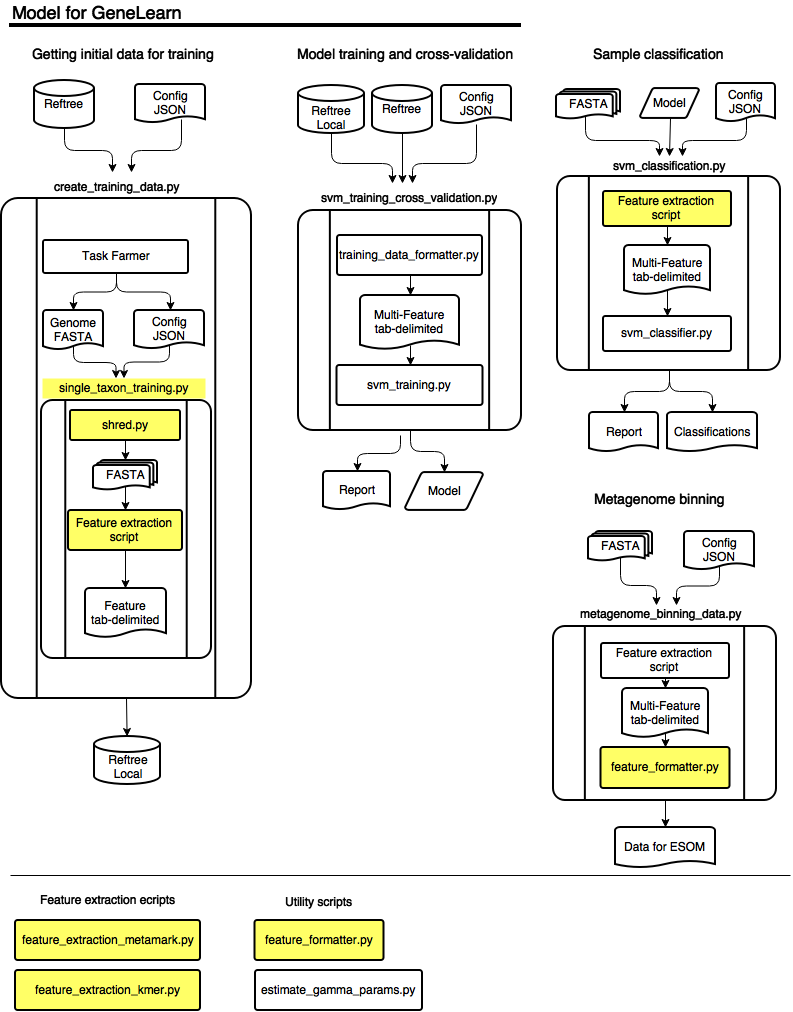
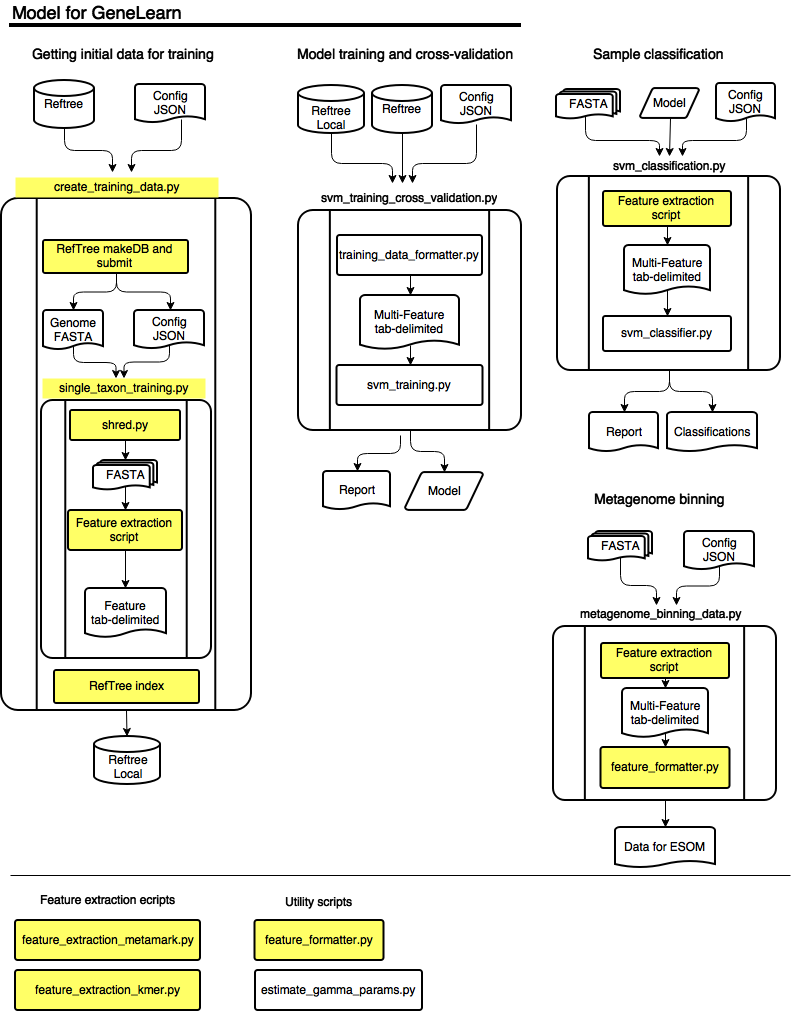
Replaced some files that were not properly saved

Changed region(s): [[0.0, 0.1532, 0.2724, 0.2757], [0.0, 0.6433, 0.3329, 0.7045], [0.7566, 0.6126, 0.9382, 0.6739]]

diff --git a/bin/create_training_data.py b/bin/create_training_data.py
@@ -9,7 +9,7 @@ import subprocess
 from Bio import SeqIO
 parser = argparse.ArgumentParser(description='A script to create training data from gemomes' )
 parser.add_argument('-c', '--config', help ="json formatted config file")
-parser.add_argument('-o', '--output', help ="Reftree database directory") 
+parser.add_argument('-o', '--output', help ="Reftree database directory location") 
 args = parser.parse_args()
 
 
@@ -17,64 +17,24 @@ args = parser.parse_args()
 config = json.loads( open(args.config, 'r'))
 # If an id list is specified in config write it otherwise query everything from the root node \
 if config["trainingid"]:
-	nodes = config["trainingid"]
-	print("Loading Subtree taxon ids from config file: %i" % nodes)
+	node = config["trainingid"]
+	print("Loading subtree taxon ids from config file: %i" % nodes)
 else:
-	nodes = [1]
+	node = [1]
 	print("No subtree specified, training on all sequences")
 	
-# Create data directory if necessary and 100 subdirectories
-datadir = os.path.join(os.path.abspath(config["rootdir"],"data"))
-if not os.path.exists(datadir):
-	os.makedirs(datadir)
-for i in range(10,100):
-	os.makedirs(os.path.join(datadir,str(i))
+# Open a subprocess to create a new reftree database directory, have it execute a shell \
+# script that calls single_taxon_training and writes the results to the reftree database directory
 
-# Open a subprocess to have RefTree pass taxids
-taxids = []
-for node in nodes:
-	reftreeparams = ["refrree.pl","--taxonomy", node, "genomic" ]
-	p1 = subprocess.Popen(reftreeparams, stdin=subprocess.PIPE, stdout=subprocess.PIPE)
-	reftreeout, reftreeerr= p1.communicate()
-	taxids.append(reftreeout)
-	assert p1.returncode == 0, "RefTree returned the error %s while looking up the \
-		taxonomy ids" % qsuberr
-	# root/data/01/0143242.fasta, etc
+reftreeopts = ["reftree.pl", "--newdb", args.output, "--submit", "genomic", \
+	"./single_taxon_training.py","TRUE","--","__TAXON__","__TMPFILE__"]
+p1 = subprocess.Popen(reftreeopts, stdin=subprocess.PIPE, stdout=subprocess.PIPE)
+reftreeout, reftreeerr= p1.communicate()
+assert p1.returncode == 0, "RefTree returned the error %s while executing taxon training" % qsuberr
 
-## Create generate a task farmer job list file ##
 
-# Create a Task farmer directory
-tfdir = os.path.join(os.path.abspath(config["analysisrootdir"]),"taskfarmer")
-if not os.path.exists(tfdir):
-	os.path.makedir(tfdir)
-
-# Open the Task Farmer list file
-tflist = os.path.join(ftdir, "taskfarmer.list")
-with open(tflist, 'w') as tfl: 
-	# for every fasta write a line in the task farmer list file
-	for taxid in taxids:
-		outfile = os.path.abspath(taxid) +".done"
-		tfl.write("single_taxon_training.py "--taxid"+ taxid + ":" +  outfile + ":" + "0")
-tflist.close()
-
-# Start up the task farmer "client" i.e. manager
-p2 = subprocess.Popen(["tfmq-client", "-i", "tflist" "-q", "singletaxontraining"], \
-	stdout=subprocess.PIPE, stderr=subprocess.STDOUT)
-tfmqout,tfmqerr = p2.communicate()
-
-# qsub the script containing the Task Farmer workers
-p3 = subprocess.Popen(["qsub", "-l", "ram.c=5G", "-t" "1-40", "./taskfermer_sts.sh"], \
-	stdout=subprocess.PIPE, stderr=subprocess.STDOUT)
-qsubout,qsuberr = p2.communicate()
-assert p3.returncode == 0, "qsub returned the error %s" % qsuberr
-
-# Monitor the Task farmer client and wait for the processes to complete
-if p2.returncode == 0:
-	
-	# Call Reftree to have it generate reftree local db from the datadir
-	reftreedb = os.path.abspath(args.output)
-	if not os.path.exists(reftreedb):
-		os.makedb(reftreedb)
-	p4 = subprocess.Popen(["reftree.pl", "--loadDb", datadir, reftreedb ], \
-		stdout=subprocess.PIPE, stderr=subprocess.STDOUT)
-	tr2out,tr2err = p2.communicate()
+# Index the reftree database #
+reftree2opts = ["reftree.pl", "--indexDb", args.output]
+p2 = subprocess.Popen(reftree2opts, stdin=subprocess.PIPE, stdout=subprocess.PIPE)
+reftreeout, reftreeerr= p1.communicate()
+assert p2.returncode == 0, "RefTree returned the error %s while indexing the database" % qsuberr

diff --git a/bin/feature_extraction_metamark.py b/bin/feature_extraction_metamark.py
@@ -1,0 +1,77 @@
+#!/usr/bin/env python
+import argparse
+import os
+import subprocess
+from Bio import SeqIO
+from itertools import chain
+import shutil
+import re
+
+parser = argparse.ArgumentParser(description='A script to generate a feature matrix  \
+using emmission data from Metamark')
+parser.add_argument('--input', help="A multi-sequence fasta file",type=argparse.FileType('r'), default='-')
+parser.add_argument('--output', help= "output file, tab delimited format", type=argparse.FileType('w'), default='-')
+parser.add_argument('--tmpdir', help="A path to a temporary directory")
+parser.add_argument('--taxid', help="A path to a temporary directory")
+parser.add_argument('--mmp', help="the parameters file for metamark", default = "../gm_parameters/par_11.modified")
+args = parser.parse_args()
+
+## File parsing and variable assignment
+path = os.path.join(os.path.abspath(args.tmpdir),"metamark" )
+records = SeqIO.parse(args.input, "fasta")
+mmp = os.path.abspath(args.mmp)
+
+# Functions
+def flatten(listOfLists):
+    """Flatten one level of nesting"""
+    return chain.from_iterable(listOfLists)
+
+def parsemod(dir, taxid):
+    """Finds the Genemark model, parses it and returns a feature vector with the taxid as the first element"""
+    for file in os.listdir(dir):
+        if file.endswith("hmm.mod"):
+            with open(file, "r") as f:
+                rawvec = []
+                taxlist = [taxid]
+                for line in f.readlines():
+                    rawvec.append(line.split())
+                start1 = rawvec.index(['COD1']) +1
+                stop1 = rawvec.index(['COD2']) -1
+                COD1 = (list(flatten(rawvec[start1: stop1 ])))
+                start2 = 1 + rawvec.index(['NONC'])
+                NONC = (list(flatten(rawvec[start2: start2 +64 ])))
+                itemvect = COD1 + NONC
+                #itemvect = [float(i) for i in itemvect]
+                assert len(itemvect) == 256, "a full length vector could not be extracted from %s" % f.name
+                modvect =  taxlist + itemvect
+            f.close()       
+            return modvect
+            break
+            
+
+# for each sequence in the fasta file:
+for record in records:
+    if not os.path.isdir(path):
+        os.mkdir(path) # Generate a temp dir
+    os.chdir(path) 
+    handle = open("fragment.fasta", "w") # open a fasta file
+    SeqIO.write(record, handle, "fasta") # write the sequence to it
+    handle.close() # close the file
+    
+    ## Run metamark
+    metamarkparams = ["gmsn.pl", "--clean", "--gm", "--par", mmp,"fragment.fasta"]
+    p1 = subprocess.Popen(metamarkparams, stdin=subprocess.PIPE, stdout=subprocess.PIPE)
+    metamarkout, metamarkerr= p1.communicate()
+    error = re.search("ERROR", metamarkout)
+    if error:
+        os.chdir(os.path.abspath(args.tmpdir))
+        shutil.rmtree(path)
+        break
+    #Parse results
+    featurevect = parsemod(path,args.taxid)
+    if featurevect:
+        args.output.write("\t".join(featurevect))
+        args.output.write("\n")
+        os.chdir(os.path.abspath(args.tmpdir))
+        shutil.rmtree(path)
+    

diff --git a/bin/shred.py b/bin/shred.py
@@ -14,7 +14,7 @@ parser.add_argument('--samples', help="Total number of shreded contigs to create
 parser.add_argument('--length', help="The length of the genome subsamples", default = 100, type=int)
 parser.add_argument('--shape', help="Shape parameter of gamma distribution, k", default =100, type=float)
 parser.add_argument('--scale', help="Scale parameter of gamma distribution, theta", default = 10, type=float)
-parser.add_argument('--offset', help= "offset, or minimum contig length allowed", default = 0, type=int)
+parser.add_argument('--offset', help= "Offset, or minimum contig length allowed", default = 0, type=int)
 
 args = parser.parse_args()
 

diff --git a/bin/single_taxon_training.py b/bin/single_taxon_training.py
@@ -4,10 +4,6 @@ import os
 import argparse
 import subprocess
 import simplejson as json
-import jsonschema
-import random
-import string
-from Bio import SeqIO
 
 parser = argparse.ArgumentParser(description='A script to extract genomic features on a single taxon \
 	optionally shredding the taxon into sizes specified by a distribution and creating a \
